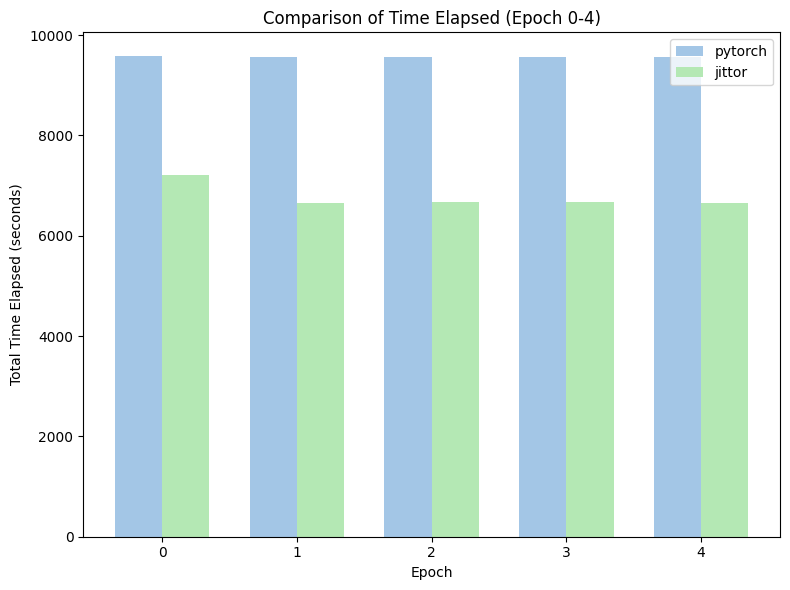
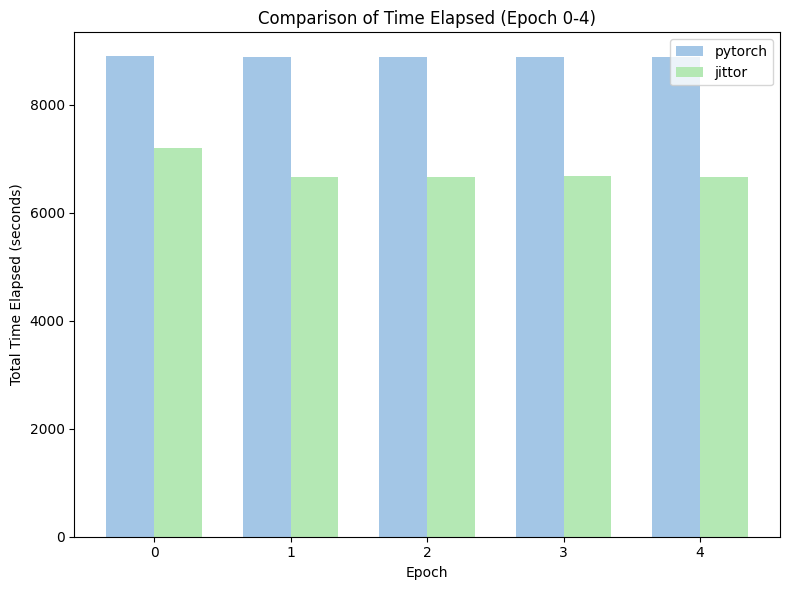
UPD

diff --git a/README.md b/README.md
@@ -1,15 +1,19 @@
 # jittor-retinanet
 
-本项目基于 [Jittor 框架](https://github.com/Jittor/jittor) 复现经典目标检测模型 [RetinaNet](https://arxiv.org/pdf/1708.02002v2.pdf)，对齐并评估了 PyTorch 与 Jittor 两种实现方式在 **COCO 2017** 数据集上的性能与精度表现。
+该项目基于 [Jittor 框架](https://github.com/Jittor/jittor) 复现经典目标检测模型 [RetinaNet](https://arxiv.org/pdf/1708.02002v2.pdf)，基于 COCO2017 数据集进行训练。此外，项目针对原始的 Focal Loss 进行了创新性改进，提出了一种新的损失函数——**Dynamic Logit Focal Loss**。
 
 ![pic_show](./tools/img/pic_show.png)
 
-### 项目内容
+### 模型介绍
 
+- **Retinanet**：RetinaNet是由Facebook AI Research团队在2017年提出的一种目标检测算法。与传统的目标检测算法不同，RetinaNet特别关注类别不平衡问题，尤其是在面对背景和前景类别数量差异巨大的场景时，表现尤为突出。它通过一种叫做焦点损失（Focal Loss）的创新技术，解决了目标检测中常见的类别不平衡问题。
 
-- 基于 [PyTorch 实现](https://github.com/yhenon/pytorch-retinanet)，使用预训练 ResNet50 进行训练，同时记录训练日志和评估日志；
-- 使用 **Jittor 框架** 对齐 PyTorch 实现，并在相同配置下进行训练和评估；
-- 对 **两种版本（PyTorch / Jittor）** 的训练性能、损失变化和检测精度进行对比分析。
+  ![pic_show](./tools/img/RetinaNet.png)
+- **Network Architecture**：RetinaNet是由Resnet、FPN为主要架构，detection部分则是由两个FCN 子网路组成，分别用于预测分类及边缘框识别。
+- **Focal Loss**：Retinanet 通过 Focal Loss，解决了目标检测中常见的类别不平衡问题。
+     ![pic_show](./tools/img/FL.png)
+- **Dynamic Logit Focal Loss**：在 logit 空间计算 loss，提高数值稳定性，在此基础上，让模型根据 logit 动态调整调制因子，更好指导模型学习。
+
 
 ### 项目结构
 
@@ -177,6 +181,8 @@ python visualize.py --dataset tiny_coco --coco_path ./tiny_coco --model <your_mo
 
 详见于[pytorch-logs](https://github.com/Running-Turtle1/jittor-retinanet/tree/main/pytorch-retinanet/logs) 和 [Jittor-logs](https://github.com/Running-Turtle1/jittor-retinanet/tree/main/jittor-retinanet/logs)。
 
+UPD IN 2025/08/16，增加了更多的 epochs 进行训练。
+
 | framework | backbone | epochs | bactch_size | coco mAP@[.5:.95] |
 | --------- | -------- | ------ | ----------- | ----------------- |
 | jittor    | resnet50 | 5      | 2           | 0.295             |
@@ -186,32 +192,45 @@ python visualize.py --dataset tiny_coco --coco_path ./tiny_coco --model <your_mo
 
 #### 训练性能对比
 
+分析前 5 个 epoch：
+
 ![](./visualization/Train.png)
 
-- Jittor 平均训练时间: 6772.70 秒/epoch
+- Jittor 平均训练时间: 6772.70 秒/epoch；PyTorch 平均训练时间: 8,884.86 秒/epoch
 
-- PyTorch 平均训练时间: 9565.99 秒/epoch
-- 在本实验中，PyTorch 的训练速度比 Jittor 慢了约 **41.2%**
+- 在本实验中，PyTorch 的训练速度比 Jittor 快了 **~31.2%**。
 
 #### 损失变化对比
 
+分析前 5 个 epoch：
+
 ![](./visualization/loss_contrast.png)
 
-- 在 0-3 个 epoch 中，Jittor 的总损失比 PyTorch 略高
-- 到第4个 epoch，Jittor 实现了 **反超**，损失更低
+- 在 0-3 个 epoch 中，Jittor 的总损失比 PyTorch 略高，到第4个 epoch，Jittor 实现了 **反超**，损失更低
+
+#### 训练稳定性
+
+分析前 5 个 epoch：
 
 ![](./visualization/epoch_total_loss.png)
 
-- 相较于 Pytorch 存在不稳定峰值，Jittor 损失曲线更平稳，波动范围小
+![](./visualization/CV.png)
+
+- 相较于 Pytorch 存在不稳定峰值，Jittor 损失曲线更平稳，波动范围小，变异系数大概下降了 **~10%**。
 
 #### 精度对比
 
 ![mAP](./visualization/mAP_Comparison.png)
 
-- 两组模型的 mAP 均不断提升，模型的检测性能在不断改善
-  - pytorch-retinanet 从 0.207 提升到 0.295，提升了约 0.088
-  - jittor-retinanet 从 0.199 提升到 0.30，提升了约 0.101
-- jittor 对模型的训练会得到略高的 mAP，总体来看实现了对齐
+- 相较于 PyTorch 的实现，Jittor 版本的 RetinaNet 在 COCO mAP@[.5:.95] 指标上达到了 **~0.38**，精度提升了 **11%**。
+
+### jittor的通道数；
+
+- **backbone 替换**：论文中使用Resnet50以及Resnet101，改用更深的Resnet152以及其他变体、使用ResNeXt模型、或者使用Swin Transformer 或 EfficientNet 等网络；
+- **FPN改进**：论文中用了p3~p7的尺度，可以增加尺度提高准确率；也可以调整FPN的通道数；
+- **Backbone替换**：论文中使用Resnet50以及Resnet101，改用更深的Resnet152以及其他变体、使用ResNeXt模型、或者使用Swin Transformer 或 EfficientNet 等网络；
+- **FPN改进**：FPN改进：论文中用了p3~p7的尺度，可以增加尺度提高准确率；也可以调整FPN的通道数；
+- **关于FPN中FCN的使用**：可以增加提取的步骤，在通过backbone提取的特征层次之间或者是抽取特征之后，加入额外卷积模型进行更深层次的加工。
 
 ### 相关资源
 
